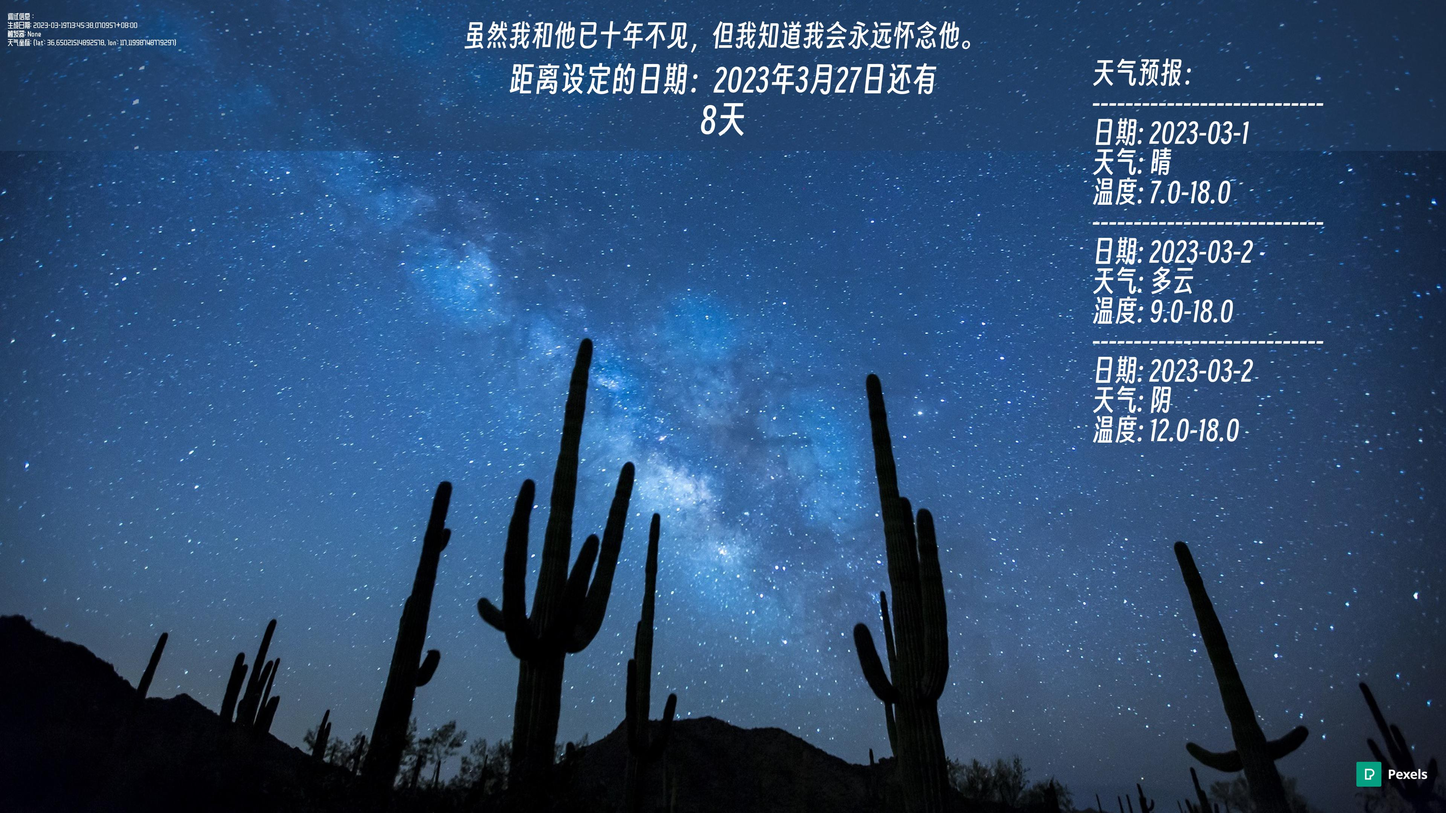
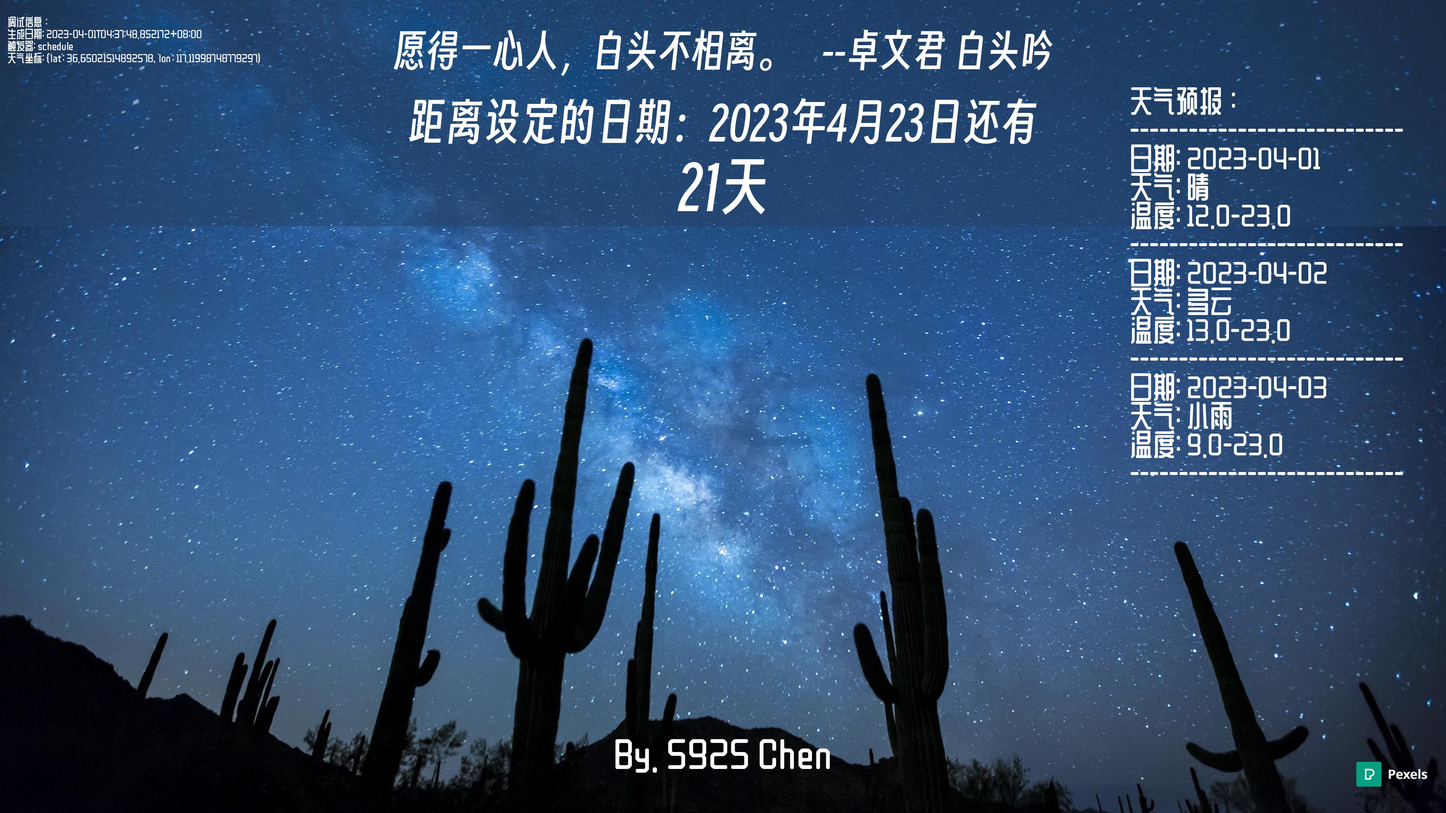
deploy: f9115aec4adeb9c831c56e076c06604ba522e482

diff --git a/background/index.html b/background/index.html
@@ -1223,6 +1223,27 @@ Automation: <a href="../backgrounds/6DEBB2.exe">Link</a></p>
 <td align="center"><a href="../backgrounds/3729213.jpg">图片链接</a></td>
 <td align="center">schedule</td>
 </tr>
+<tr>
+<td align="center">2023-04-01</td>
+<td align="center">6423989</td>
+<td align="center">且视他人之疑目如盏盏鬼火，大胆地去你的夜路。</td>
+<td align="center"><a href="../backgrounds/6423989.jpg">图片链接</a></td>
+<td align="center">schedule</td>
+</tr>
+<tr>
+<td align="center">2023-04-01</td>
+<td align="center">5428362</td>
+<td align="center">直道相思了无益，未妨惆怅是清狂。</td>
+<td align="center"><a href="../backgrounds/5428362.jpg">图片链接</a></td>
+<td align="center">schedule</td>
+</tr>
+<tr>
+<td align="center">2023-04-01</td>
+<td align="center">34107</td>
+<td align="center">愿得一心人，白头不相离。</td>
+<td align="center"><a href="../backgrounds/34107.jpg">图片链接</a></td>
+<td align="center">schedule</td>
+</tr>
 </tbody>
 </table>
 
